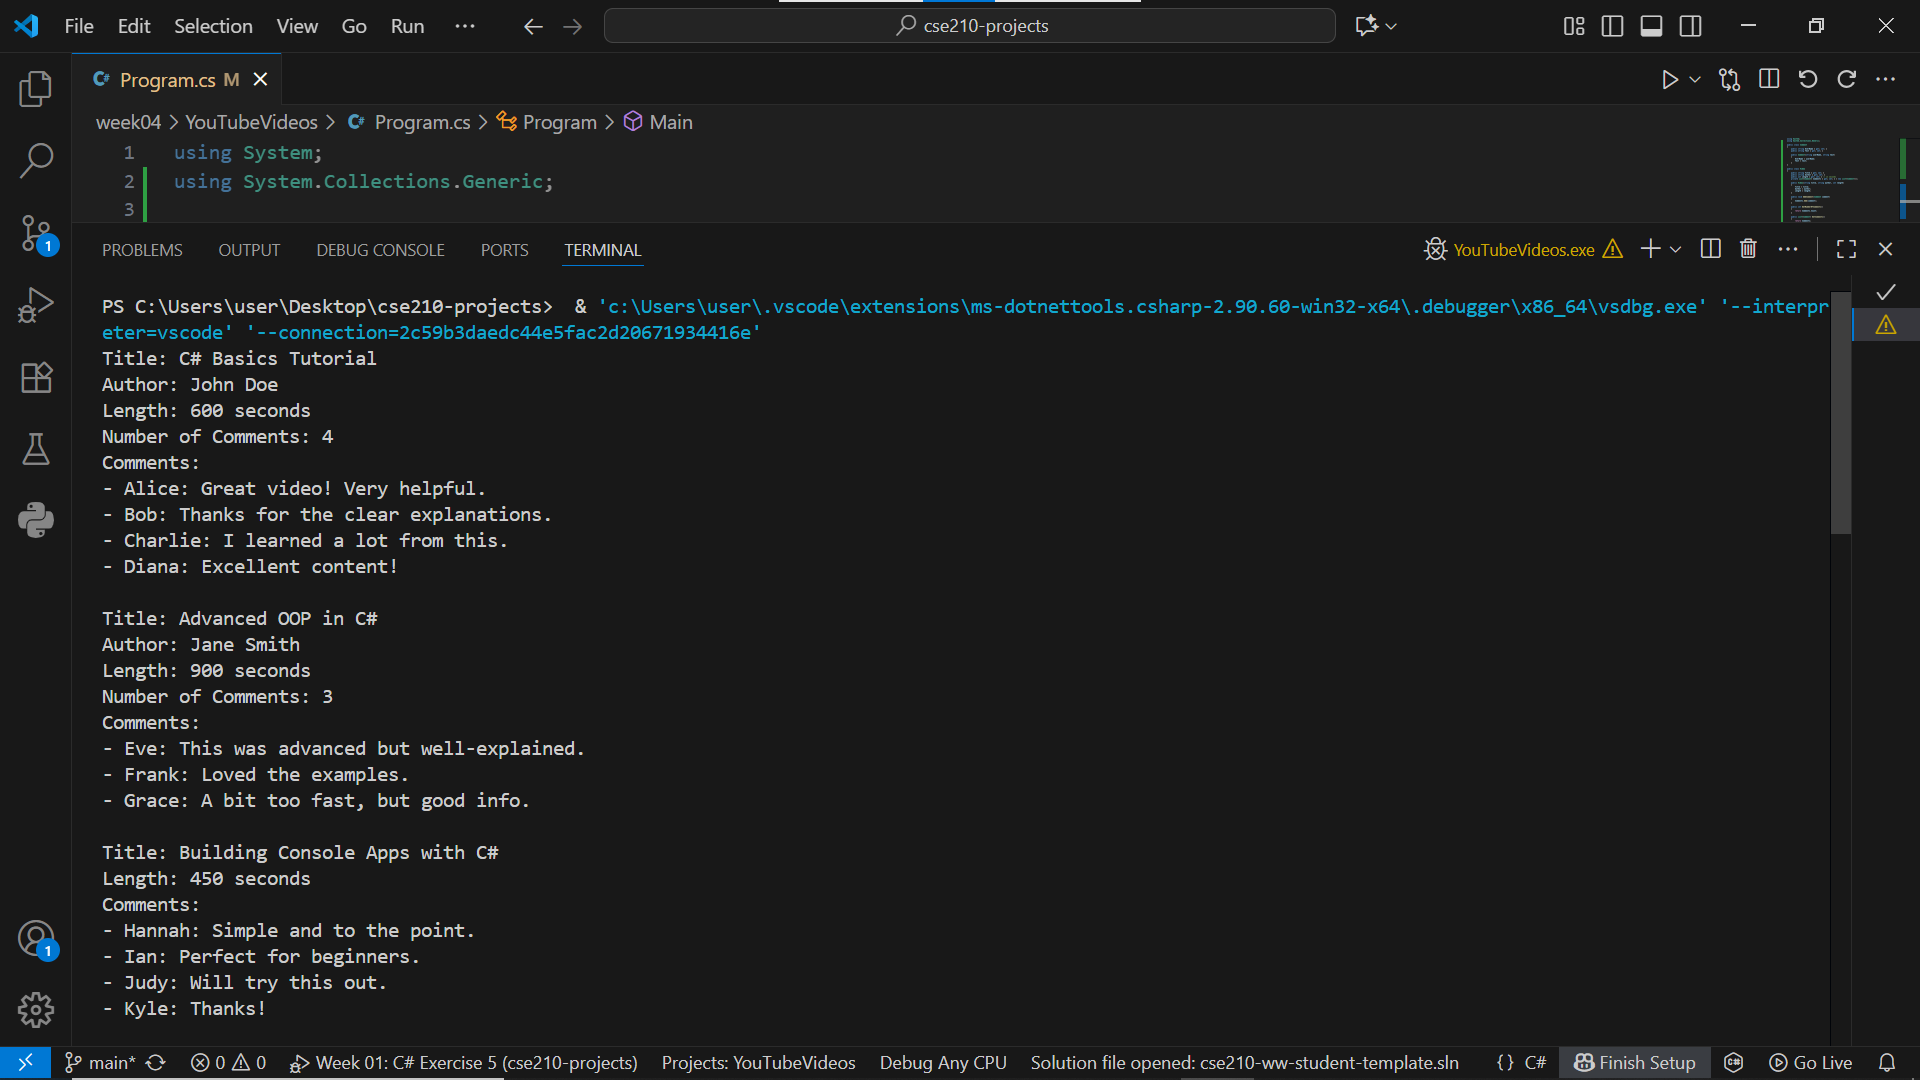
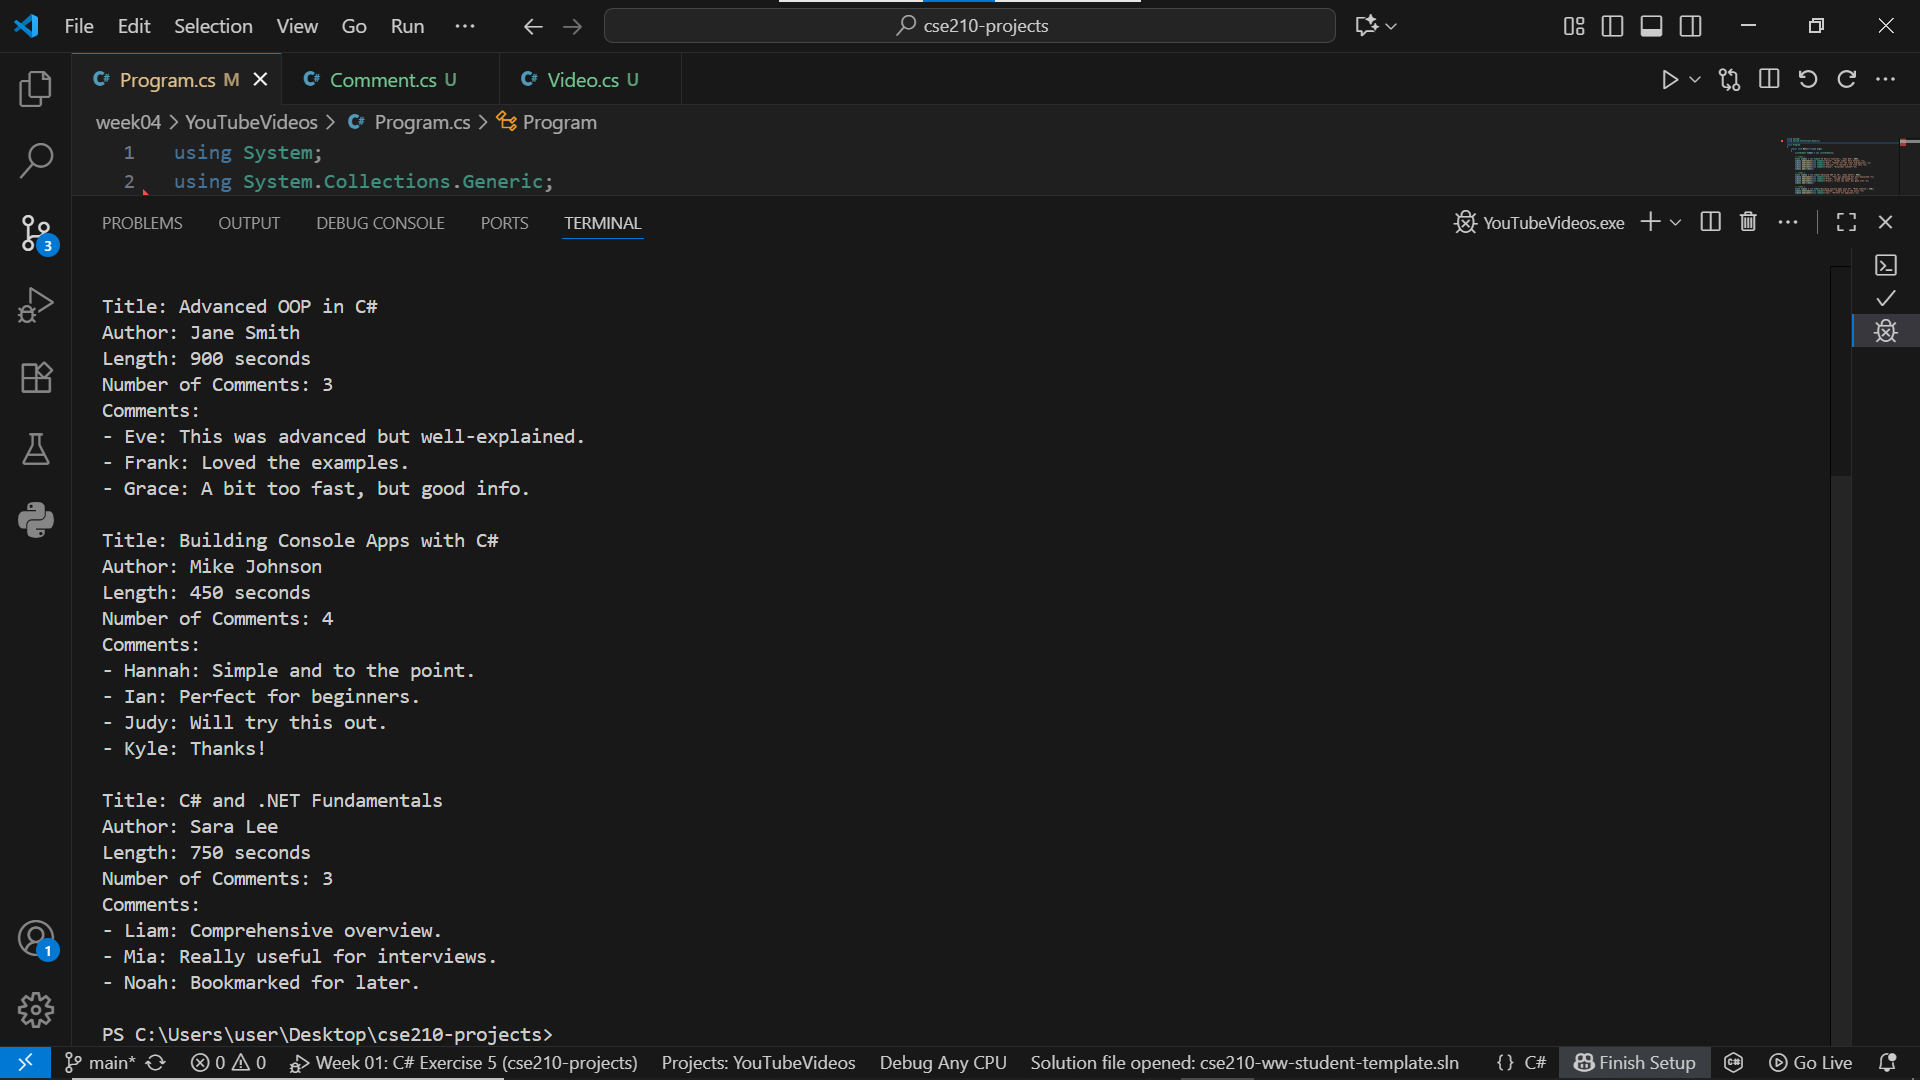
Refactored-1

diff --git a/week04/YouTubeVideos/Program.cs b/week04/YouTubeVideos/Program.cs
@@ -1,48 +1,6 @@
 using System;
 using System.Collections.Generic;
 
-public class Comment
-{
-    public string UserName { get; set; }
-    public string Text { get; set; }
-
-    public Comment(string userName, string text)
-    {
-        UserName = userName;
-        Text = text;
-    }
-}
-
-public class Video
-{
-    public string Title { get; set; }
-    public string Author { get; set; }
-    public int Length { get; set; } // in seconds
-    private List<Comment> Comments { get; set; } = new List<Comment>();
-
-    public Video(string title, string author, int length)
-    {
-        Title = title;
-        Author = author;
-        Length = length;
-    }
-
-    public void AddComment(Comment comment)
-    {
-        Comments.Add(comment);
-    }
-
-    public int GetNumberOfComments()
-    {
-        return Comments.Count;
-    }
-
-    public List<Comment> GetComments()
-    {
-        return Comments;
-    }
-}
-
 class Program
 {
     static void Main(string[] args)

diff --git a/week04/YouTubeVideos/Video.cs b/week04/YouTubeVideos/Video.cs
@@ -1,0 +1,32 @@
+using System;
+using System.Collections.Generic;
+
+public class Video
+{
+    public string Title { get; set; }
+    public string Author { get; set; }
+    public int Length { get; set; } // in seconds
+    private List<Comment> Comments { get; set; } = new List<Comment>();
+
+    public Video(string title, string author, int length)
+    {
+        Title = title;
+        Author = author;
+        Length = length;
+    }
+
+    public void AddComment(Comment comment)
+    {
+        Comments.Add(comment);
+    }
+
+    public int GetNumberOfComments()
+    {
+        return Comments.Count;
+    }
+
+    public List<Comment> GetComments()
+    {
+        return Comments;
+    }
+}

diff --git a/week04/YouTubeVideos/Comment.cs b/week04/YouTubeVideos/Comment.cs
@@ -1,0 +1,13 @@
+using System;
+
+public class Comment
+{
+    public string UserName { get; set; }
+    public string Text { get; set; }
+
+    public Comment(string userName, string text)
+    {
+        UserName = userName;
+        Text = text;
+    }
+}
